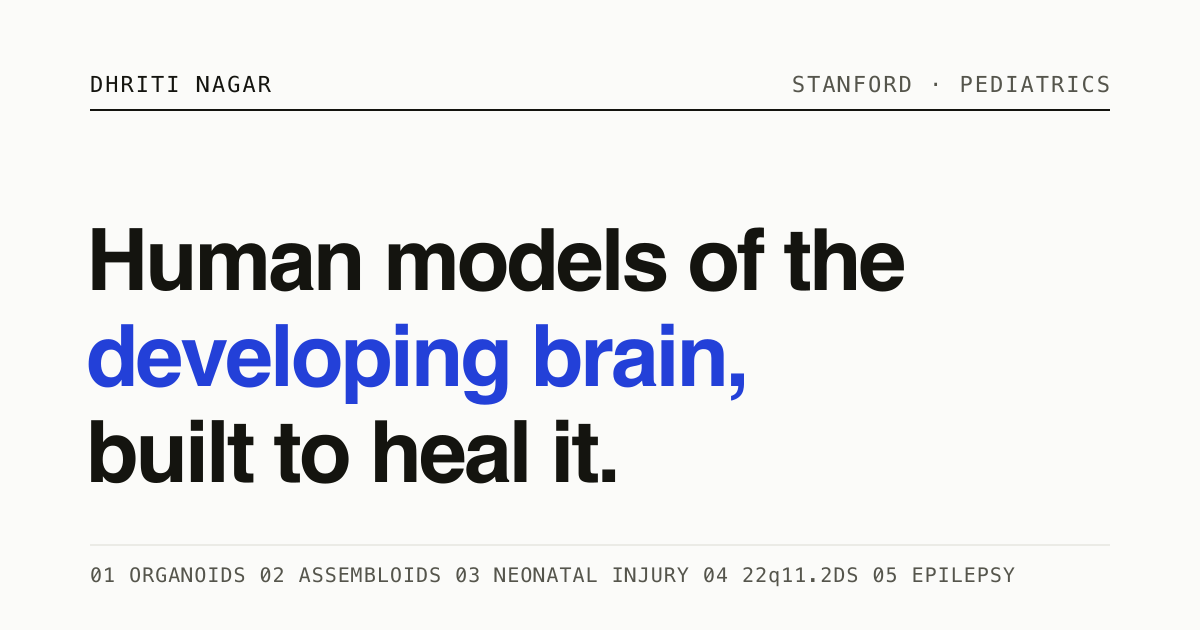
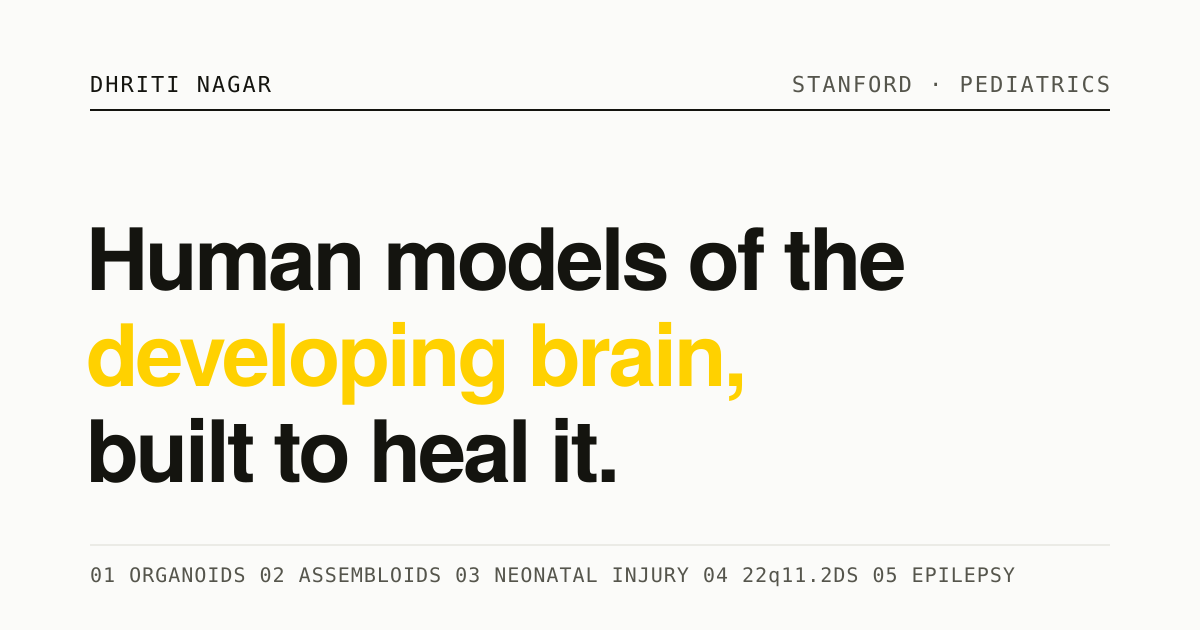
Site-wide yellow and grey palette
Replace cobalt across the whole site. This could not be a one-line token
swap, because --accent was doing two incompatible jobs: it coloured type
(links, numbers, the hero highlight) and it filled planes (buttons). Yellow
cannot do the first. #ffd100 is 1.4:1 against the paper, and a 1px rule or
a 5px dot in it is as invisible as text would be.

So the accent splits by role:
  --accent           anything the eye must resolve: type, thin rules, small
                     marks, focus rings. Ochre #6e5400 light (6.9:1), the
                     yellow itself dark (13.1:1), because ochre collapses to
                     2.7:1 on the dark ground.
  --accent-field     large planes only: buttons, chips, section blocks.
  --accent-contrast  type on a field: #14140f, 12.6:1.

The hero and vision highlights become an actual yellow highlighter with
near-black type rather than ochre display type, which read muddy at 86px
and inverted the rule the rest of the system follows.

Commentary drops its scoped palette and inherits these tokens.

Two fixes found while auditing:
- --ink-faint was 3.55:1 on the light paper, failing AA for all small
  metadata. Darkened to #6c6c62, which passes on both grounds.
- a hardcoded grey in the first piece failed on dark; now a token.

Every text node on every page in both modes now passes WCAG AA.

Claude-Session: https://claude.ai/code/session_01XeuKs2KotvTAen7txhZ1Qo

diff --git a/src/styles/global.css b/src/styles/global.css
@@ -39,16 +39,28 @@
   --card: #ffffff;
   --ink: #14140f;
   --ink-soft: #4c4c44;
-  --ink-faint: #86867c;
+  --ink-faint: #6c6c62;   /* passes AA on paper (5.1:1) and paper-2 (4.7:1) */
   --line: rgba(20, 20, 15, 0.14);
   --line-strong: rgba(20, 20, 15, 0.5);
   --rule: #14140f;              /* heavy structural rules */
 
-  --accent: #2340d8;           /* cobalt: links, numbers, emphasis */
-  --accent-bright: #2340d8;
-  --accent-contrast: #ffffff;
+  /* ---- Accent: yellow and grey ---------------------------------------
+     Yellow is a FIELD, never an ink. #ffd100 measures 1.4:1 against this
+     paper, far under the 4.5:1 floor for text, and a 1px rule or a 5px dot
+     in it is just as invisible as text would be.
 
-  --selection: rgba(35, 64, 216, 0.18);
+     So the system splits in two:
+       --accent        anything the eye must RESOLVE: type, thin rules,
+                       small marks, focus rings. Ochre here, yellow in dark.
+       --accent-field  large planes only: buttons, chips, blocks.
+       --accent-contrast  type sitting on a field.
+     -------------------------------------------------------------------- */
+  --accent: #6e5400;           /* ochre: links, numbers, emphasis, marks */
+  --accent-bright: #6e5400;
+  --accent-field: #ffd100;     /* the plane */
+  --accent-contrast: #14140f;  /* near-black on yellow: 12.6:1 */
+
+  --selection: rgba(255, 209, 0, 0.42);
 
   color-scheme: light;
 }
@@ -64,11 +76,12 @@
   --line-strong: rgba(241, 241, 236, 0.5);
   --rule: #f1f1ec;
 
-  --accent: #7d93ff;
-  --accent-bright: #7d93ff;
-  --accent-contrast: #0f0f13;
+  --accent: #ffd100;
+  --accent-bright: #ffd100;
+  --accent-field: #ffd100;
+  --accent-contrast: #14140f;
 
-  --selection: rgba(125, 147, 255, 0.26);
+  --selection: rgba(255, 209, 0, 0.3);
 
   color-scheme: dark;
 }
@@ -84,10 +97,11 @@
     --line: rgba(241, 241, 236, 0.16);
     --line-strong: rgba(241, 241, 236, 0.5);
     --rule: #f1f1ec;
-    --accent: #7d93ff;
-    --accent-bright: #7d93ff;
-    --accent-contrast: #0f0f13;
-    --selection: rgba(125, 147, 255, 0.26);
+    --accent: #ffd100;
+    --accent-bright: #ffd100;
+    --accent-field: #ffd100;
+    --accent-contrast: #14140f;
+    --selection: rgba(255, 209, 0, 0.3);
     color-scheme: dark;
   }
 }
@@ -178,7 +192,7 @@ img { max-width: 100%; height: auto; display: block; }
 
 .measure { max-width: var(--measure); }
 
-/* Section eyebrow: mono label, cobalt, with a short leading rule. */
+/* Section eyebrow: mono label in the accent, with a short leading rule. */
 .eyebrow {
   font-family: var(--font-mono);
   font-size: var(--step--2);
@@ -249,13 +263,13 @@ img { max-width: 100%; height: auto; display: block; }
 .btn:hover { border-color: var(--accent); color: var(--accent); text-decoration: none; }
 
 .btn-solid {
-  background: var(--accent);
-  border-color: var(--accent);
+  background: var(--accent-field);
+  border-color: var(--accent-field);
   color: var(--accent-contrast);
 }
 .btn-solid:hover {
-  background: var(--accent);
-  border-color: var(--accent);
+  background: var(--accent-field);
+  border-color: var(--accent-field);
   color: var(--accent-contrast);
   filter: brightness(1.08);
 }

diff --git a/src/styles/commentary.css b/src/styles/commentary.css
@@ -2,9 +2,13 @@
    COMMENTARY  —  the long-form argument layout.
 
    Swiss / International Typographic Style on a two-rail grid, built entirely
-   from the site's own design tokens in global.css. It inherits the cobalt
-   accent, the hairline rules and dark mode for free. Do not hardcode a
-   colour in this file; if you need a new one, add a token upstream.
+   from the site's own design tokens in global.css. It inherits the accent,
+   the hairline rules and dark mode for free. Do not hardcode a colour in
+   this file; if you need a new one, add a token upstream.
+
+   Note the accent split: --accent-field is the yellow plane, --accent is
+   what the eye must resolve (type and thin marks). Never put type in the
+   field colour; it is 1.4:1 against the light paper.
 
    Structure a piece uses:
      .cm-mast      masthead: rail, headline, standfirst, byline
@@ -60,7 +64,7 @@
 }
 
 .cm .rail span:first-child {
-  background: var(--accent);
+  background: var(--accent-field);
   color: var(--accent-contrast);
   padding-left: 8px;
   padding-right: 8px;
@@ -173,7 +177,7 @@
 .cm blockquote {
   margin: var(--space-l) 0;
   padding: 16px 0 18px;
-  border-top: 6px solid var(--accent);
+  border-top: 7px solid var(--accent-field);
   border-bottom: 1px solid var(--rule);
   font-size: var(--step-2);
   line-height: 1.16;
@@ -275,7 +279,7 @@
   font-weight: 700;
   letter-spacing: -0.04em;
   color: var(--accent-contrast);
-  background: var(--accent);
+  background: var(--accent-field);
   display: inline-block;
   justify-self: start;
   padding: 6px 14px 9px;
@@ -346,7 +350,7 @@
   display: inline-block;
   width: 9px;
   height: 9px;
-  background: var(--accent);
+  background: var(--accent-field);
   margin-right: 6px;
 }
 
@@ -418,7 +422,7 @@
 
 .cm .fix {
   background: var(--paper-2);
-  border-top: 4px solid var(--accent);
+  border-top: 4px solid var(--accent-field);
   padding: 14px 16px 16px;
 }
 
@@ -474,6 +478,12 @@
   color: var(--ink-faint);
   font-weight: 700;
   font-family: var(--font-mono);
+}
+
+.cm .cm-note-small {
+  font-size: var(--step--2);
+  color: var(--ink-soft);
+  margin-top: var(--space-m);
 }
 
 .cm .sources a { text-decoration: none; }

diff --git a/src/commentary/one-scarcity-three-markets.html b/src/commentary/one-scarcity-three-markets.html
@@ -438,7 +438,7 @@
   <li><a href="https://www.nobelprize.org/prizes/economic-sciences/2012/summary/">The 2012 Sveriges Riksbank Prize in Economic Sciences, for the theory of stable allocations and the practice of market design</a></li>
 </ul>
 
-<p style="font-size:13px;color:#6E6E6E;margin-top:22px;">Documents referred to in the text whose full texts I could not retrieve, and on which no argument here rests: <em>Dr. P. Rajendra Prasad v. State of Telangana</em> (2019); <em>Md. Rizwan Arfath v. State of Telangana</em> (2022); <em>Sapthagiri Institute of Medical Sciences v. State of Karnataka</em> (2024); <em>Km. Shivani Singh v. State of U.P.</em> (2022); <em>Akula Harshini v. State of Telangana</em> (2025); <em>Rachit Sinha v. Union of India</em> (2018); the Warangal FIR on the KNRUHS registrar's 2022 complaint; and the CBI's June 2025 first information report. Where these are cited, they are cited as reported, and marked as such.</p>
+<p class="cm-note-small">Documents referred to in the text whose full texts I could not retrieve, and on which no argument here rests: <em>Dr. P. Rajendra Prasad v. State of Telangana</em> (2019); <em>Md. Rizwan Arfath v. State of Telangana</em> (2022); <em>Sapthagiri Institute of Medical Sciences v. State of Karnataka</em> (2024); <em>Km. Shivani Singh v. State of U.P.</em> (2022); <em>Akula Harshini v. State of Telangana</em> (2025); <em>Rachit Sinha v. Union of India</em> (2018); the Warangal FIR on the KNRUHS registrar's 2022 complaint; and the CBI's June 2025 first information report. Where these are cited, they are cited as reported, and marked as such.</p>
 </div>
 
 <footer>
